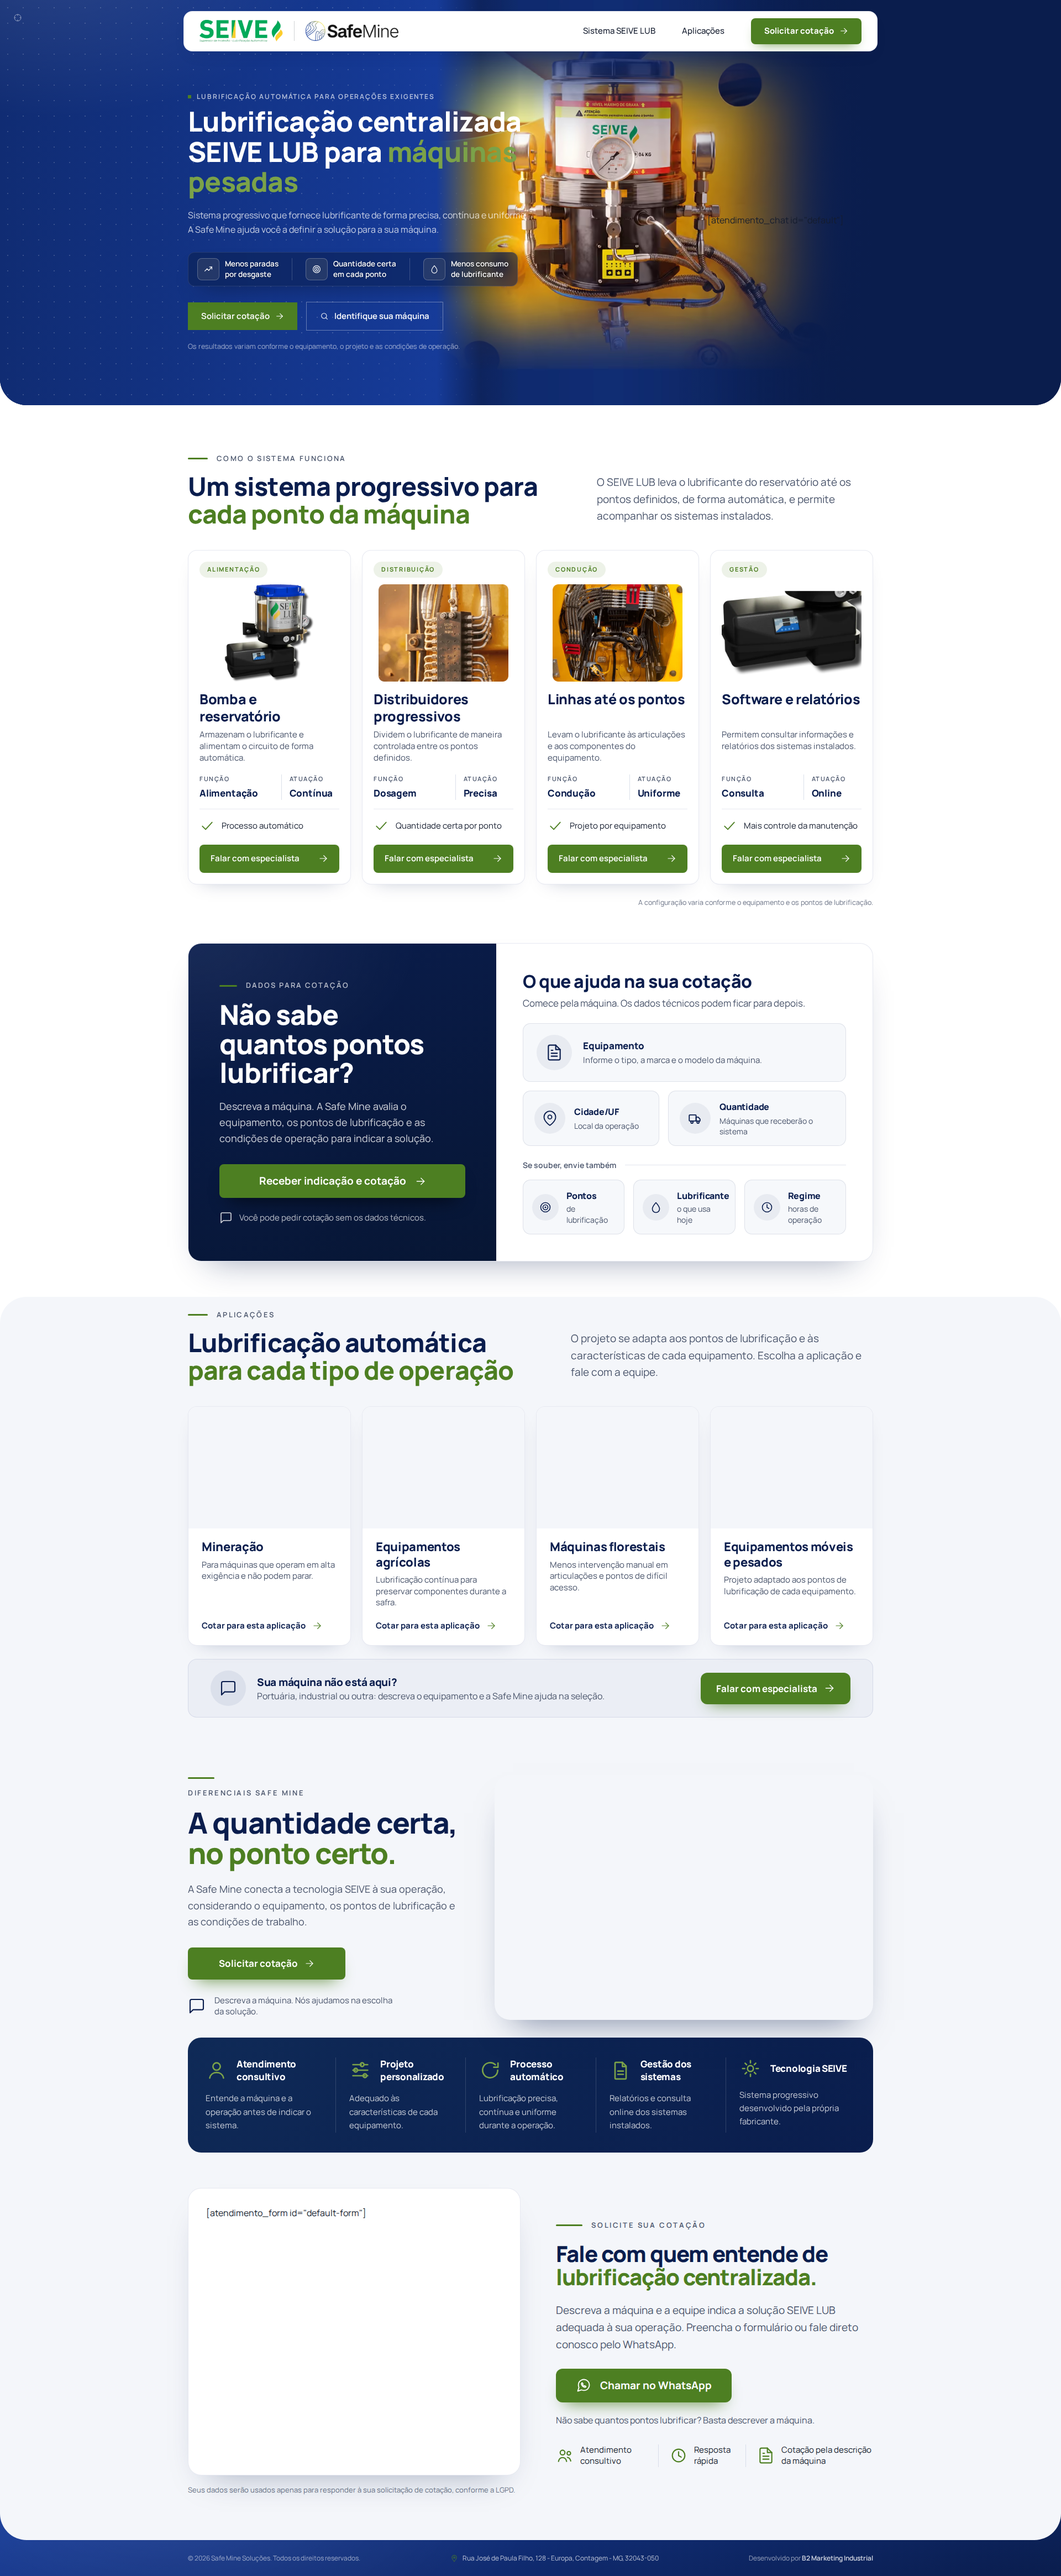
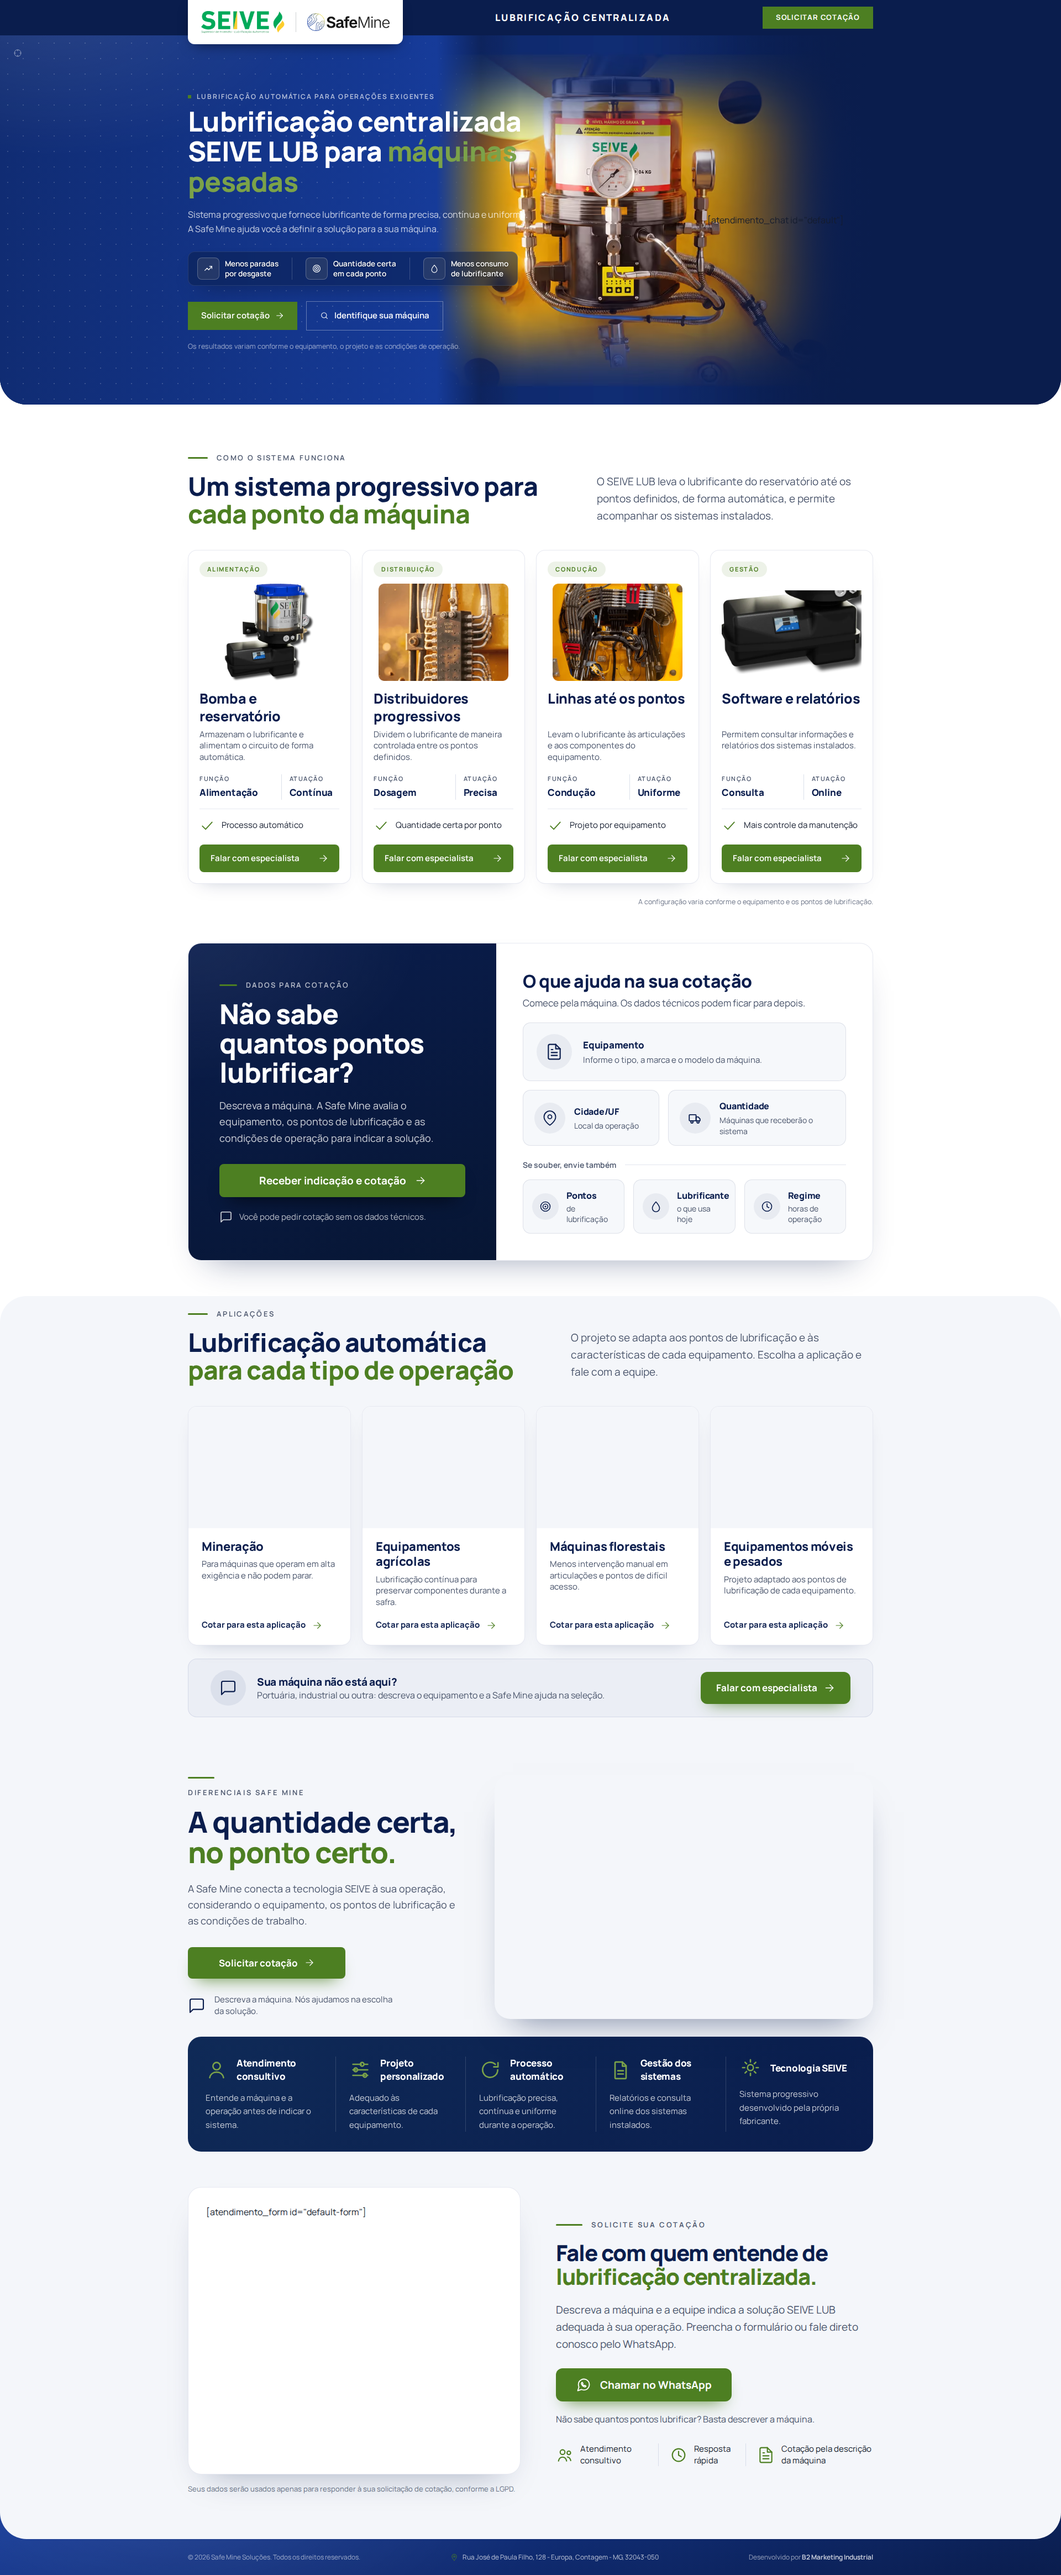
fix(header): restaura a estrutura fixa 4.1.1
Barra navy sticky, logo em placa branca pendurada, tagline central e CTA
laranja, sem âncoras, como nas demais LPs da B2. Nas LPs da SEIVE a placa
leva o logo SEIVE, um separador e o Safe Mine. O Hero volta ao padding do
padrão, já que o header não é mais sobreposto. Assinatura A8 do Header e
BRIEFING atualizados; screenshots regerados.

diff --git a/src/data/content.ts b/src/data/content.ts
@@ -42,11 +42,8 @@ export const cta = {
 /* ------------------------------------------------------------------ header */
 
 export const header = {
-  /** Âncoras da barra: rolam até as seções. */
-  nav: [
-    { id: 'sistema', label: 'Sistema SEIVE LUB', href: '#linhas' },
-    { id: 'aplicacoes', label: 'Aplicações', href: '#aplicacoes' },
-  ],
+  /** Tagline central da barra (estrutura fixa 4.1.1): o produto principal. */
+  tagline: 'Lubrificação centralizada',
 } as const
 
 /* -------------------------------------------------------------------- hero */

diff --git a/docs/BRIEFING.md b/docs/BRIEFING.md
@@ -65,7 +65,7 @@ Certificações, patente, números da SEIVE, "primeira fornecedora brasileira", 
 
 ## Desvios do padrão
 
-- **Header:** barra branca flutuante com a logo da Safe Mine, pedida pela B2 em 29/10/2026 com o mockup do topo. A assinatura do `check:lp` conhece essa estrutura.
+- **Header:** sem desvio. Restaurado em 01/11/2026 à estrutura fixa 4.1.1 (barra navy sticky, logo em placa pendurada, tagline central, CTA laranja, sem âncoras).
 - **Hero:** sem desvio. O Hero da primeira versão (fundo claro, sem a coluna do chat) foi substituído em 01/11/2026 pelo da estrutura fixa 4.1.2: grid `1fr · 270px · 300px`, coluna 2 vazia, slot `shortcode` de 300px, foto de 1700px ancorada na borda do container. A faixa de quatro prioridades e o cartão de ajuda do hero saíram; a nota de resultados ficou sob os botões.
 - **Linhas:** `ProductLines.astro` sem a faixa "Não sabe qual configuração escolher?" (01/11/2026), por repetir o bloco `identificar` logo abaixo. Recompor com `compose.mjs` sobrescreve o arquivo: guarde esta versão antes.
 - **Paleta:** os véus do hero usam o azul `#0a1d4d` da marca no lugar do navy `#001830` do template. O token `accent-orange-light` (`#7ba249`) existe só para o destaque do H1 sobre o fundo escuro.
@@ -74,3 +74,7 @@ Certificações, patente, números da SEIVE, "primeira fornecedora brasileira", 
 
 - `npm run ficha` e, com ele, `npm run verify` dependem da biblioteca `LP-STARTER-B2`, que não acompanha este repositório. Por isso, `ficha.json` e `docs/FICHA-LP.md` foram gerados a partir dos dados de `src/`, e a verificação é feita pelas etapas do CI: `check:lp`, `lint`, `format:check` e `build`.
 - Na Vercel, o formulário aparece como texto do shortcode, e os CTAs `btn-slave-whats` não têm ação: ambos dependem do plugin de atendimento do WordPress. O botão flutuante do WhatsApp funciona em qualquer hospedagem.
+
+## Header restaurado ao padrão (01/11/2026)
+
+A pedido do usuário, o Header deixou a barra branca flutuante do mockup de 29/10/2026 e voltou à estrutura fixa 4.1.1, como nas demais LPs da B2: barra navy `sticky`, a placa branca traz o logo SEIVE, um separador e o Safe Mine, tagline central "Lubrificação centralizada" e CTA laranja em caixa-alta ("Cotação" no celular). As âncoras do topo saíram. O Hero voltou ao padding do padrão (`py-20 lg:py-24`), já que o header não é mais sobreposto. A assinatura A8 do Header em `scripts/check-lp.mjs` voltou à da estrutura fixa.
